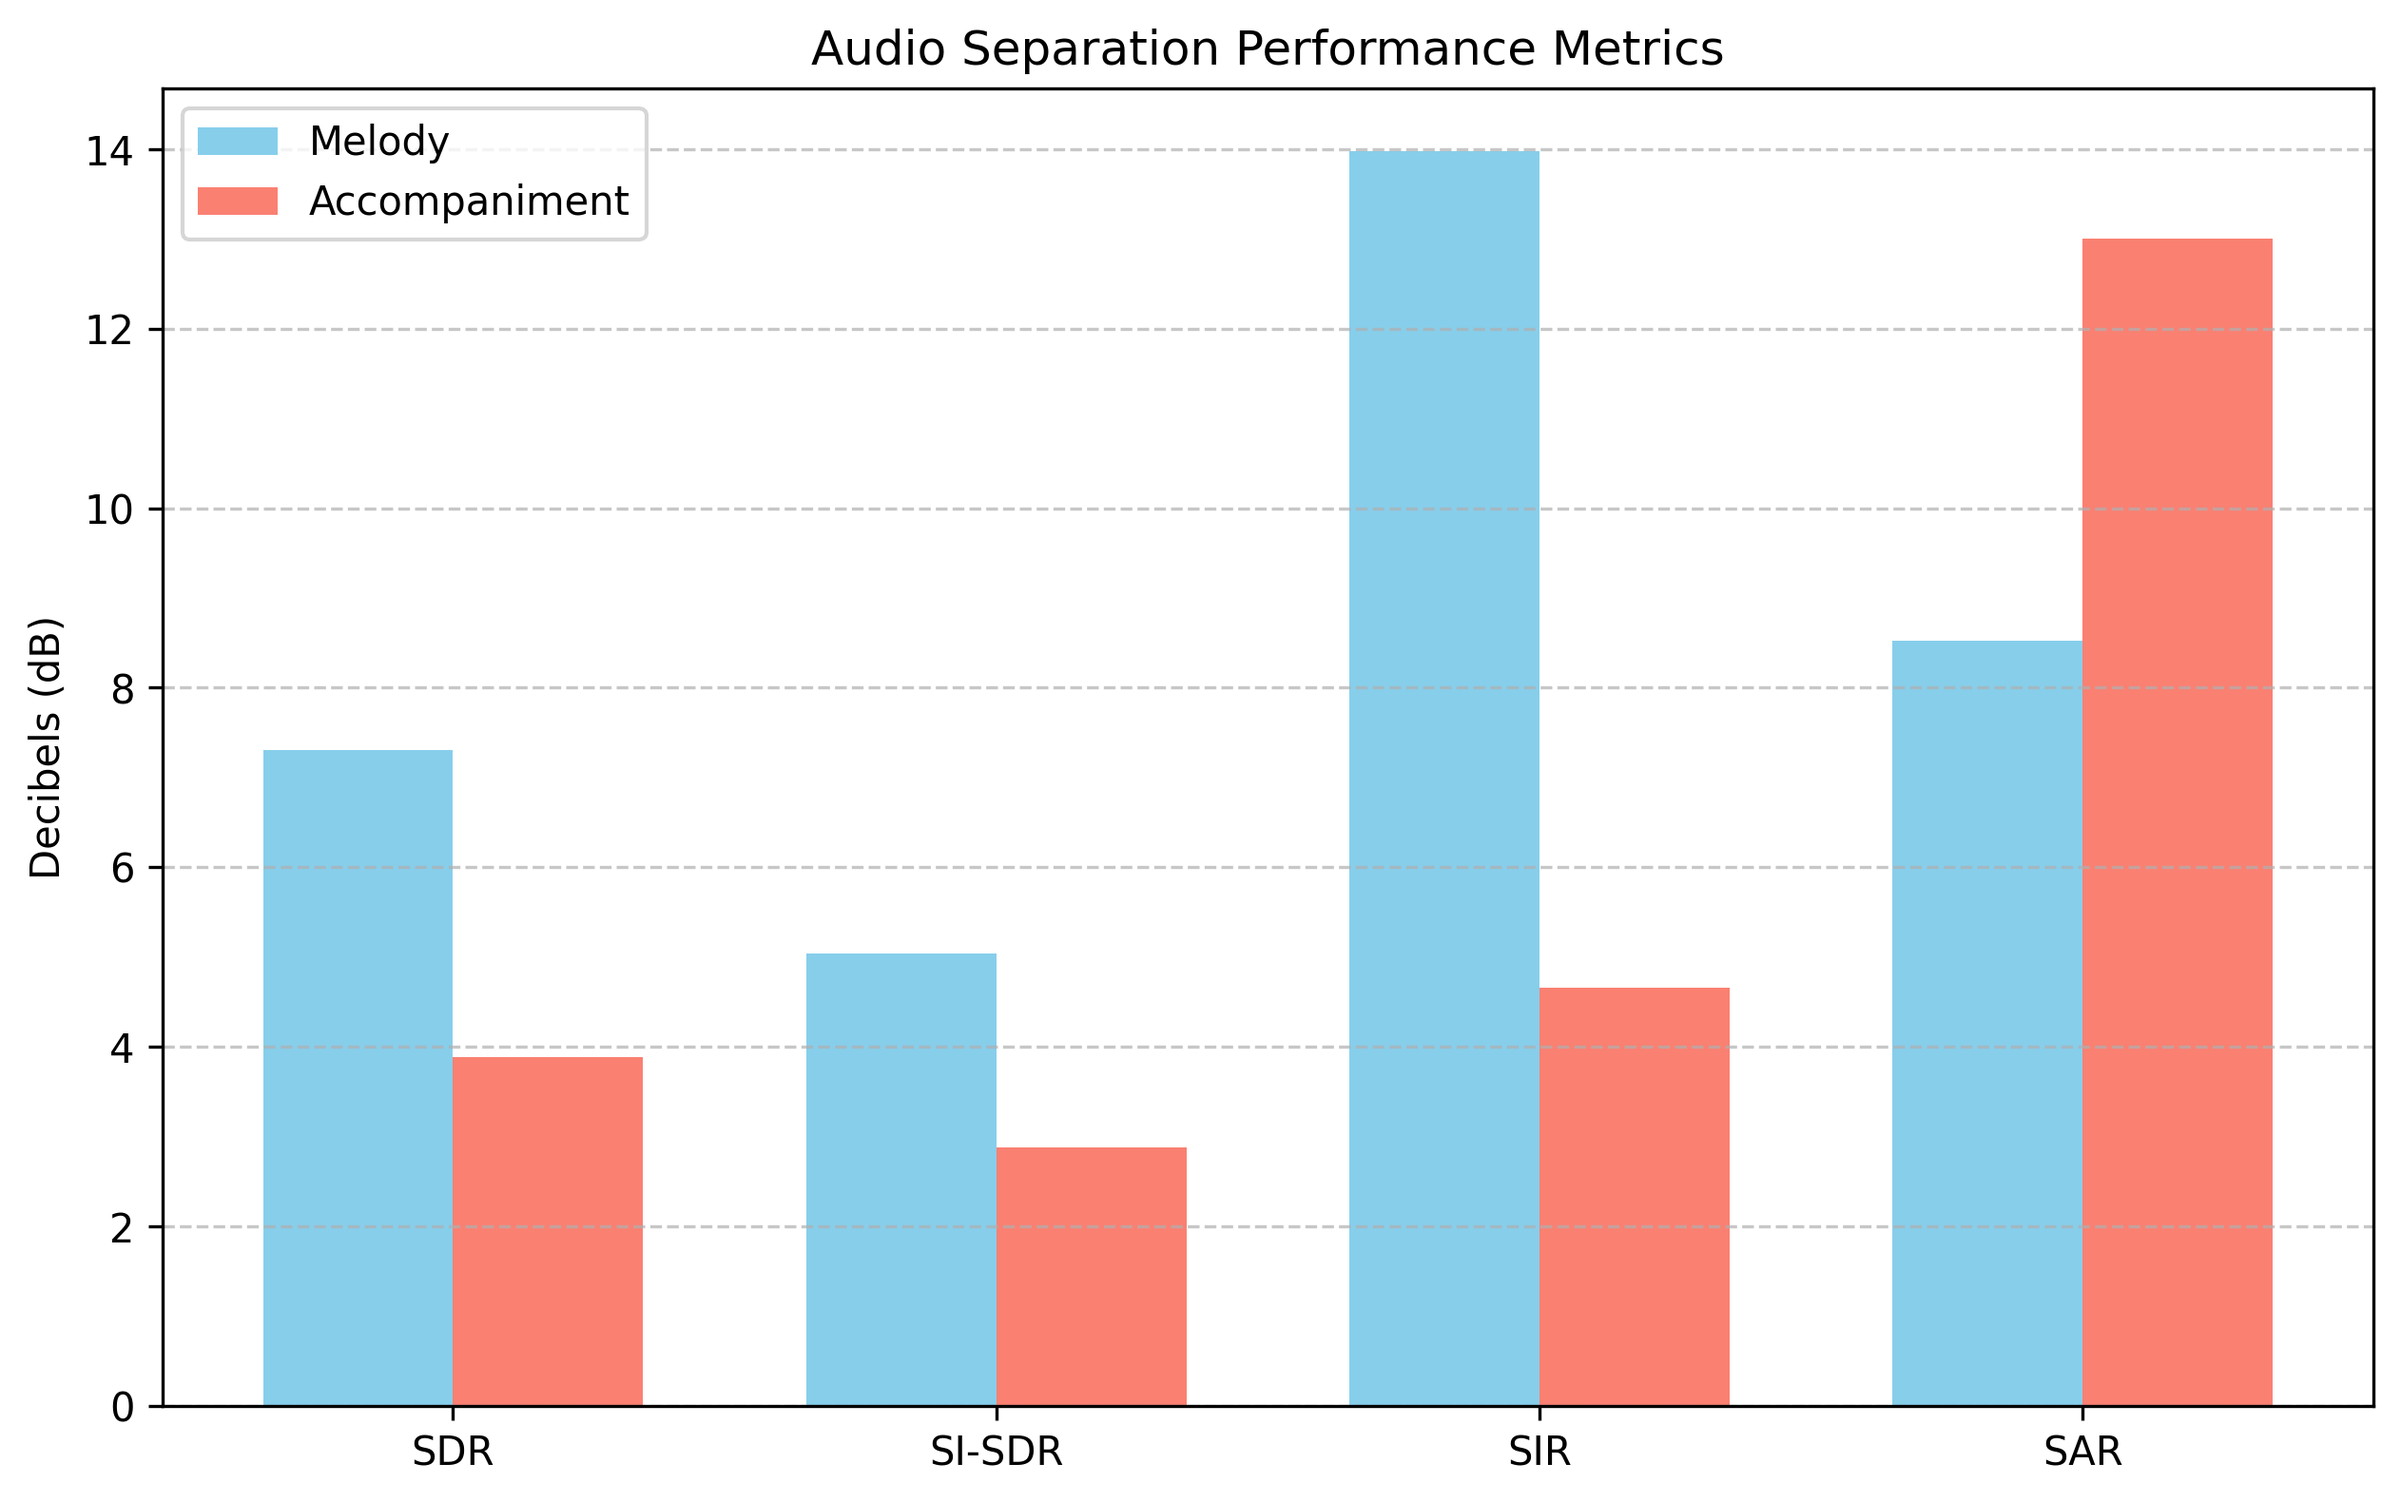
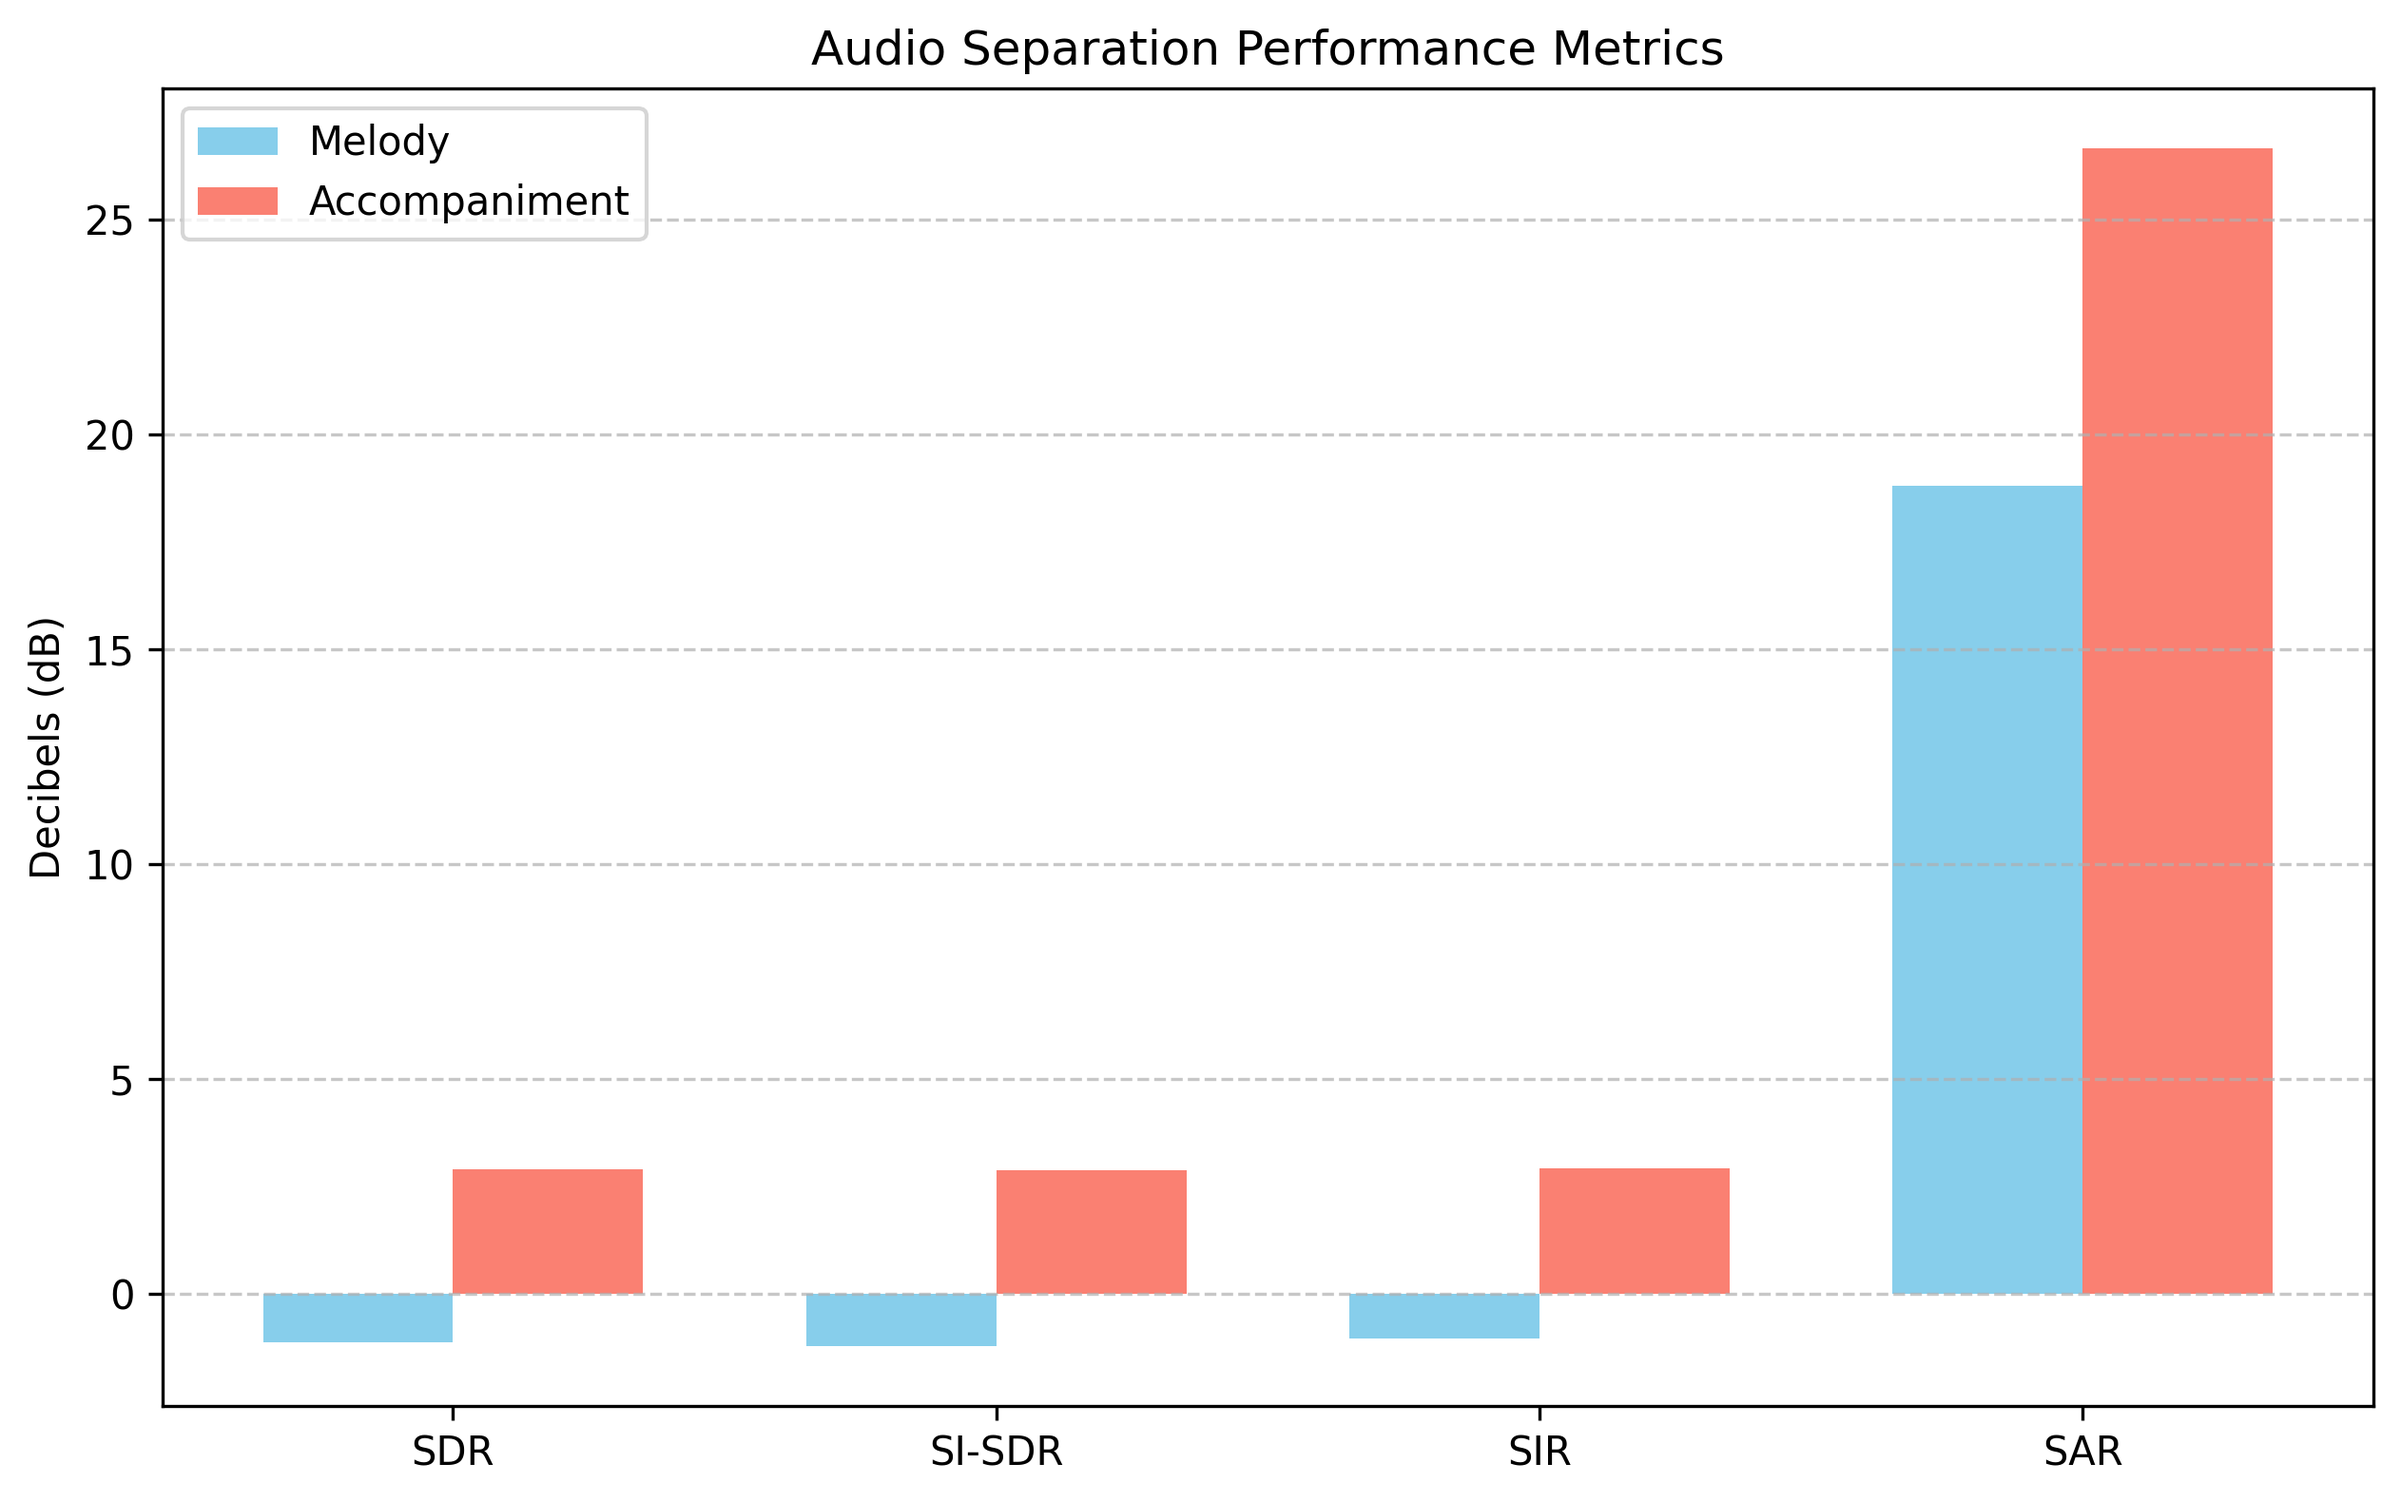
更新新版模型執行程式

diff --git a/predict.py b/predict.py
@@ -3,135 +3,112 @@ import librosa
 import numpy as np
 import soundfile as sf
 import os
-import argparse
 from utils.u_net import AudioUNet
 
-# --- 設定 ---
-# 這裡填寫你訓練好的權重檔案路徑
-MODEL_PATH = "./checkpoints_dynamic_8s/best_model.pth"
-# 設定你要測試的歌曲路徑
-INPUT_AUDIO = r"C:\Users\cebit\Desktop\專題生成\classified_dataset\balanced\mix_audio_flac\Soundtracks_Hollywood_Stockard Channing_There Are Worse Things I Could Do_mixed.flac"
-# 輸出的資料夾
-OUTPUT_DIR = "./results"
+# ==========================================
+#               參數設定
+# ==========================================
+# 1. 路徑設定
+MODEL_PATH = "./checkpoints_multi_task/best_model.pth"
+INPUT_AUDIO = r"G:\project_data\two_line_midi\flac_output\mix_audio_flac\Classical_Classical_Wolfgang Amadeus Mozart_Andante_mixed.flac"
 
+OUTPUT_DIR = "./results_no_hint"
+
+# 2. 推論設定
+TEST_DURATION = 60.0  # 測試音訊長度 (秒)，設為 None 則處理整首
+USE_DEVICE = "cuda"   # "cuda" 或 "cpu"
+
+# 3. 音訊處理參數 (必須與訓練時一致)
 SAMPLE_RATE = 44100
+N_FFT = 2048
+HOP_LENGTH = 512
+TARGET_BINS = 1024
+
+# 4. 快取設定 (解決權限警告)
+os.environ['PYTORCH_KERNEL_CACHE_PATH'] = os.path.join(os.getcwd(), '.torch_kernel_cache')
+# ==========================================
 
 def main():
-    # 1. 準備裝置
-    device = torch.device("cuda" if torch.cuda.is_available() else "cpu")
-    print(f"使用裝置: {device}")
-    
-    if not os.path.exists(OUTPUT_DIR):
-        os.makedirs(OUTPUT_DIR)
+    # 確保快取與輸出目錄存在
+    os.makedirs(os.environ['PYTORCH_KERNEL_CACHE_PATH'], exist_ok=True)
+    os.makedirs(OUTPUT_DIR, exist_ok=True)
 
-    # 2. 載入模型架構
-    print("正在載入模型...")
-    model = AudioUNet(n_channels=1, n_classes=2).to(device)
+    device = torch.device(USE_DEVICE if torch.cuda.is_available() else "cpu")
+    print(f"使用裝置: {device}")
+
+    # 1. 載入模型架構 (3 輸入通道, 4 輸出通道)
+    print("正在初始化模型架構 (3 in, 4 out)...")
+    model = AudioUNet(n_channels=3, n_classes=4).to(device)
     
-    # 3. 載入權重 (Load Weights)
+    # 2. 載入權重 (處理字典格式與 weights_only 警告)
     if os.path.exists(MODEL_PATH):
-        model.load_state_dict(torch.load(MODEL_PATH, weights_only=True))
-        print(f"成功載入權重: {MODEL_PATH}")
+        print(f"🔄 正在載入權重: {MODEL_PATH}")
+        checkpoint = torch.load(MODEL_PATH, map_location=device, weights_only=False)
+        if isinstance(checkpoint, dict) and 'model_state_dict' in checkpoint:
+            model.load_state_dict(checkpoint['model_state_dict'])
+        else:
+            model.load_state_dict(checkpoint)
+        print("✅ 權重載入成功！")
     else:
-        print(f"找不到權重檔: {MODEL_PATH}")
+        print(f"❌ 找不到權重檔: {MODEL_PATH}")
         return
     
-    model.eval() # 設定為推論模式 (這很重要！會關閉 Dropout 和 BN 的訓練行為)
+    model.eval()
 
-    # 4. 讀取音訊
+    # 3. 讀取音訊波形
     print(f"正在讀取音訊: {INPUT_AUDIO} ...")
-    # 為了避免記憶體爆掉，建議先用 30 秒片段測試，若顯存夠大可讀整首
-    # duration=30 代表只讀前 30 秒，想讀整首就把 duration 拿掉
-    y, sr = librosa.load(INPUT_AUDIO, sr=SAMPLE_RATE, duration=30.0) 
+    y, sr = librosa.load(INPUT_AUDIO, sr=SAMPLE_RATE, duration=TEST_DURATION)
     
-    # 5. 轉頻譜圖 (STFT)
-    stft = librosa.stft(y, n_fft=2048, hop_length=512)
-    magnitude = np.abs(stft)
-    phase = np.exp(1.j * np.angle(stft)) # 保存相位資訊 (重建聲音需要)
+    # 準備模型輸入: (1, L)
+    waveform_tensor = torch.from_numpy(y).unsqueeze(0).to(device)
     
-    # Log Scale & Normalize
-    log_spec = np.log(magnitude + 1e-6)
-    
-    # 紀錄原始的最大最小值，以便還原
-    min_val = log_spec.min()
-    max_val = log_spec.max()
-    norm_spec = (log_spec - min_val) / (max_val - min_val + 1e-6)
+    # 4. 準備 MIDI Hints (全零)
+    # 計算 STFT 後的時間幀數: L // HOP_LENGTH + 1
+    num_frames = len(y) // HOP_LENGTH + 1
+    midi_hints = torch.zeros((1, 2, TARGET_BINS, num_frames), dtype=torch.float32).to(device)
 
-    # --- 關鍵：維度處理 ---
-    # 訓練時我們丟掉了第 1025 點，這裡也要丟掉
-    input_spec = norm_spec[:1024, :]
-    
-    # 檢查時間軸長度，必須是 16 的倍數 (因為 U-Net 下採樣 4 次)
-    time_steps = input_spec.shape[1]
-    pad_len = 0
-    if time_steps % 16 != 0:
-        pad_len = 16 - (time_steps % 16)
-        input_spec = np.pad(input_spec, ((0,0), (0, pad_len)))
-    
-    # 轉成 Tensor: (1, 1, 1024, Time)
-    input_tensor = torch.tensor(input_spec, dtype=torch.float32).unsqueeze(0).unsqueeze(0).to(device)
+    # 5. 推論
+    print("正在進行分離運算 (無提示模式)...")
+    with torch.no_grad():
+        # 模型內部會自動處理 STFT 與 Padding
+        preds = model(waveform_tensor, midi_hints)
+        
+    # preds shape: (1, 4, 1024, Time)
+    # 通道索引: 0=Melody 音訊, 1=Accomp 音訊
+    preds = preds.cpu().numpy()[0] 
+    mask_mel = preds[0]
+    mask_acc = preds[1]
 
-    # 6. 推論 (Inference)
-    print("正在進行分離運算...")
-    with torch.no_grad(): # 不計算梯度，省記憶體
-        pred_masks = model(input_tensor)
-        
-    # pred shape: (1, 2, 1024, Time) -> 2 個 Channel (Melody, Accomp)
-    pred_masks = pred_masks.cpu().numpy()[0] # 取出第一筆 batch -> (2, 1024, Time)
+    # 6. 還原音訊
+    print("正在還原音訊並儲存檔案...")
+    stft_full = librosa.stft(y, n_fft=N_FFT, hop_length=HOP_LENGTH)
+    magnitude = np.abs(stft_full)
+    phase = np.exp(1.j * np.angle(stft_full))
+    
+    # 對齊長度 (確保輸出遮罩與原始頻譜時間軸一致)
+    T_min = min(magnitude.shape[1], mask_mel.shape[1])
+    magnitude = magnitude[:, :T_min]
+    phase = phase[:, :T_min]
 
-    # 7. 後處理 (還原成聲音)
-    print("正在應用遮罩還原音訊...")
-    # --- [進階技巧]：互斥鎖定 (Sum Constraint) ---
-    # 強迫 mask_mel + mask_acc = 1
-    # 這能讓分離更乾淨，避免兩個都搶著要同一個聲音    
-    mask_mel = pred_masks[0]
-    mask_acc = pred_masks[1]
-    print("-" * 30)
-    print(f"Melody Mask -> Mean: {mask_mel.mean():.4f}, Max: {mask_mel.max():.4f}, Min: {mask_mel.min():.4f}")
-    print(f"Accomp Mask -> Mean: {mask_acc.mean():.4f}, Max: {mask_acc.max():.4f}, Min: {mask_acc.min():.4f}")
-    print("-" * 30)
-    
-    final_masks = [mask_mel, mask_acc]
-    
-    # 分別處理 Melody (Channel 0) 和 Accomp (Channel 1)
-    for i, name in enumerate(['melody', 'accompaniment']):
-        # 取出頻譜
-        mask = final_masks[i]
+    for mask, name in [(mask_mel, 'melody'), (mask_acc, 'accompaniment')]:
+        # 取得對應長度的遮罩並補回第 1025 點
+        current_mask = mask[:, :T_min]
+        full_mask = np.vstack([current_mask, np.zeros((1, T_min))])
         
-        # 去除剛剛補的 Padding
-        if pad_len > 0:
-            mask = mask[:, :-pad_len]
-            
+        # 應用遮罩並執行反向 STFT
+        sep_mag = magnitude * full_mask
+        y_recon = librosa.istft(sep_mag * phase, hop_length=HOP_LENGTH)
         
-        # 補回第 1025 個頻率點 (用 0 補，或是複製第 1024 點)
-        # 我們需要補一行讓它變回 1025
-        mask = np.vstack([mask, np.zeros((1, mask.shape[1]))])
-        # D. [核心步驟] 應用遮罩
-        # 分離後的能量 = 原始能量 (Magnitude) * 遮罩 (Mask)
-        # 這樣做音質最好，因為我們直接操作原始訊號的能量
-        sep_magnitude = magnitude * mask
-        
-        # 結合原始相位 (使用 Phase Reconstruction)
-        # 這是一種簡單的做法，假設分離後的相位跟原曲一樣
-        y_recon = librosa.istft(sep_magnitude * phase, hop_length=512)
-        
-        # --- [自動音量最大化] ---
-        # 1. 找出目前的音量最大值
+        # 音量最大化 (避免聲音太小)
         max_amp = np.max(np.abs(y_recon))
-    
-        # 2. 如果聲音太小，就放大它
-        if max_amp > 0:
-            # 將最大值拉到 0.9 (保留一點點空間避免破音 clipping)
-            scale_factor = 0.9 / max_amp
-            y_recon = y_recon * scale_factor
-            print(f"  -> 已自動放大音量 (放大倍率: {scale_factor:.2f}x)")
+        if max_amp > 1e-6:
+            y_recon = y_recon * (0.9 / max_amp)
         
-        # 存檔
-        save_name = os.path.join(OUTPUT_DIR, f"result_{name}.wav")
-        sf.write(save_name, y_recon, SAMPLE_RATE)
-        print(f"已儲存: {save_name}")
+        save_path = os.path.join(OUTPUT_DIR, f"{name}_no_hint.wav")
+        sf.write(save_path, y_recon, SAMPLE_RATE)
+        print(f"💾 已儲存: {save_path}")
 
-    print("完成！請至 results 資料夾試聽。🎧")
+    print("\n🎉 處理完成！請至結果資料夾檢查輸出。")
 
 if __name__ == "__main__":
     main()

diff --git a/analyze_results.py b/analyze_results.py
@@ -8,11 +8,11 @@ import torch
 from torchmetrics.audio import ScaleInvariantSignalDistortionRatio
 from mir_eval.separation import bss_eval_sources
 
-pred_melody = r"F:\專題\piano-mir-melody-separation\results\result_melody.wav"
-pred_accomp = r"F:\專題\piano-mir-melody-separation\results\result_accompaniment.wav"
+pred_melody = r"F:\專題\piano-mir-melody-separation\results_no_hint\melody_no_hint.wav"
+pred_accomp = r"F:\專題\piano-mir-melody-separation\results_no_hint\accompaniment_no_hint.wav"
 
-gt_melody = r"F:\專題\piano-mir-melody-separation\results\Classical_Classical Era_Muzio Clementi_Sonatina-1_melody.flac"
-gt_accomp = r"F:\專題\piano-mir-melody-separation\results\Classical_Classical Era_Muzio Clementi_Sonatina-1_accomp.flac"
+gt_melody = r"G:\project_data\two_line_midi\flac_output\melody_audio_flac\Classical_Classical_Wolfgang Amadeus Mozart_Andante_melody.flac"
+gt_accomp = r"G:\project_data\two_line_midi\flac_output\accomp_audio_flac\Classical_Classical_Wolfgang Amadeus Mozart_Andante_accomp.flac"
 
 REPORT_PATH = "separation_report.csv"
 
